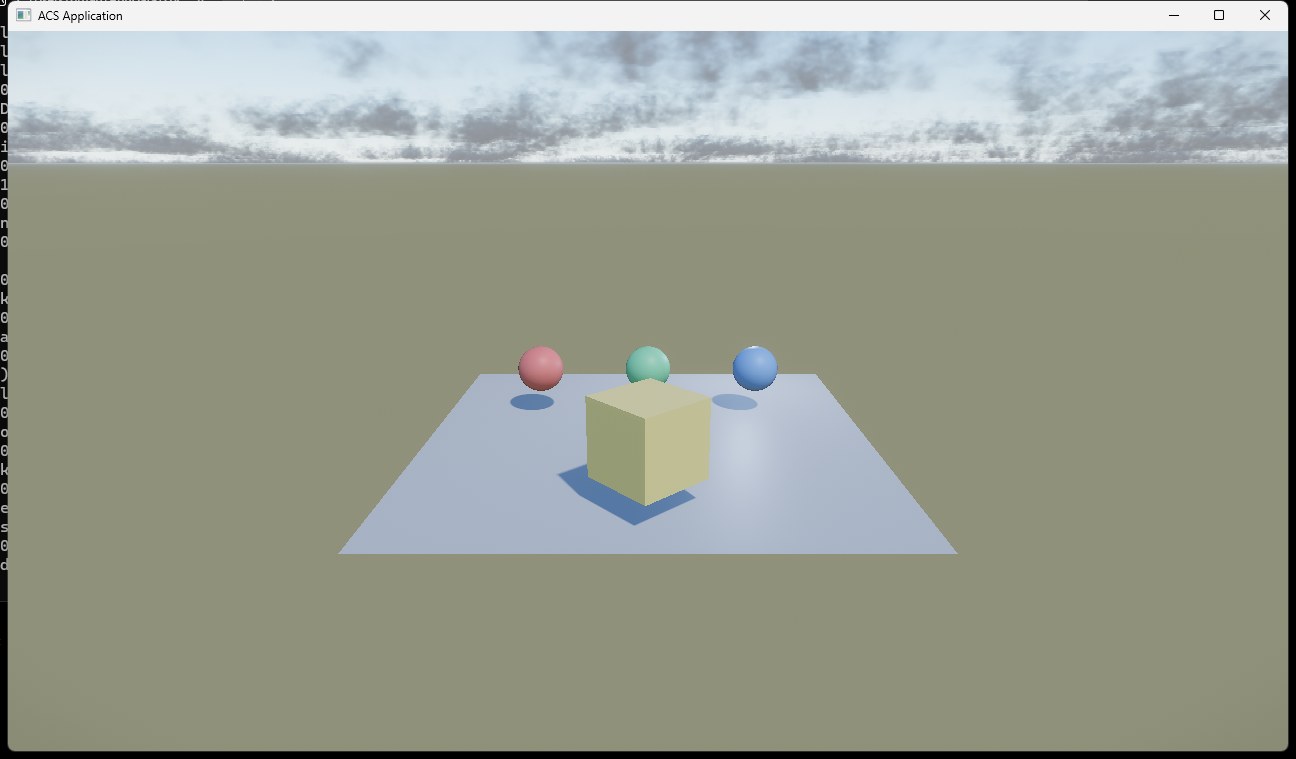
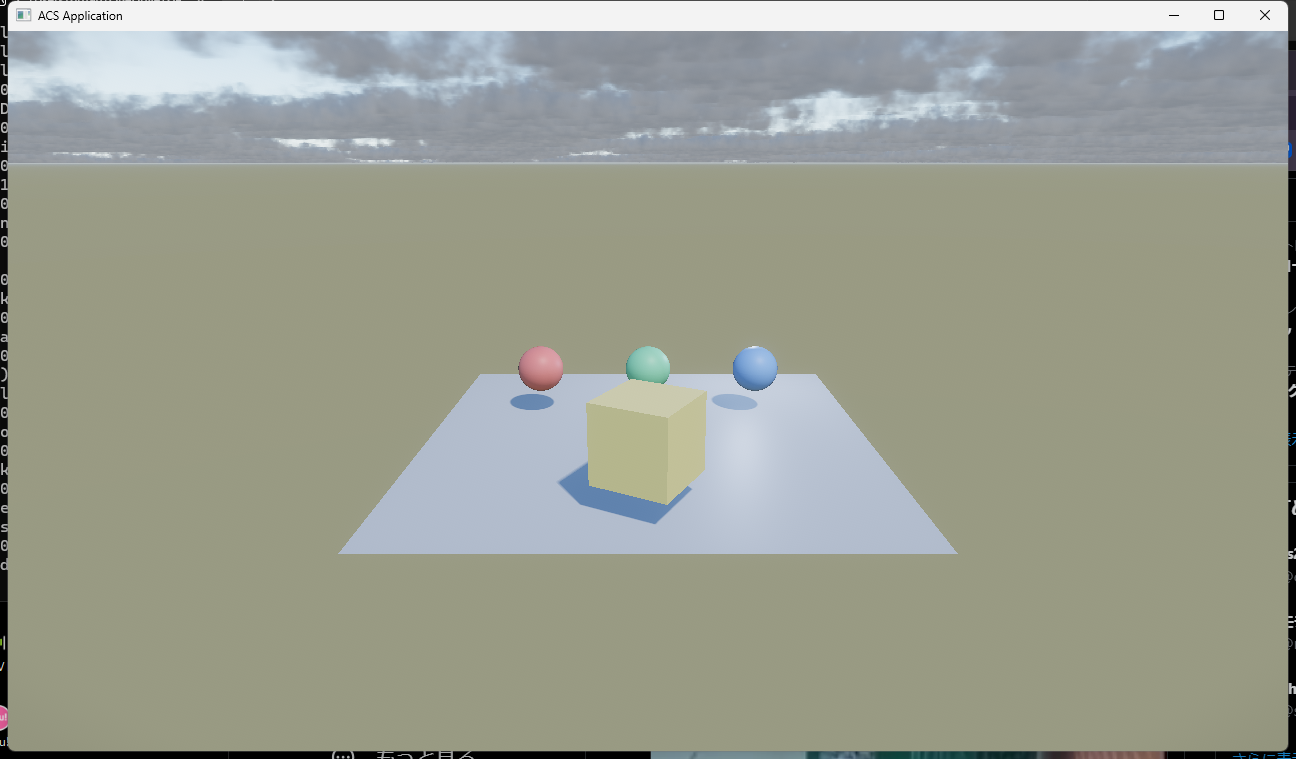
Give the demo clouds enough thickness for the lighting to act on
「ライティングを直したのに見た目が変わらない」の答え。

カメラを固定して新旧を撮り比べ、画素で測った:

  平均 |差| 4.98 / 255、最大 44、8 を超えた画素 20.8 %
  平均輝度 162.4 -> 162.7 (+0.3)

**変わってはいる。が «見て分かる» ほどではない。** 平均輝度が動いていないのが理由で、
この変更は明るさの«配り直し»だから (暗い側を暗く、縁を明るく、総量は同じ)。

そのうえデモの雲が薄すぎた。`Density 1.6` では光がほぼ素通りするので、**位相も消散も
多重散乱も効く相手が無い**。`Density 4.0` で撮ると同じライティングのまま曇天の濃淡が
はっきり出たので、働いていないのではなく働く相手が無かった。

デモを `Coverage 0.68 / Density 2.8` にした。地平の雲が «汚れ» ではなく雲に見える。

証拠: Docs/cloud-before.png (旧値) と Docs/cloud-after.png (既定値)。太陽の方を向いた
固定カメラで、他は一切変えずに撮ったもの。

Claude-Session: https://claude.ai/code/session_01QWWHaYrgcmNEqsp8SUqeVs

diff --git a/Source/AcsFramework_Sample/Scene/Demo3DScene.cpp b/Source/AcsFramework_Sample/Scene/Demo3DScene.cpp
@@ -80,7 +80,11 @@ void ADemo3DScene::OnEnter() noexcept
 	Root().AddChild( Move( FillNode ) );
 
 	// 本物の雲を出す。太陽の側が明るく、縁が光る。
-	Clouds().Coverage = 0.6f;
+	//
+	// 濃さは既定 (1.6) より上げてある。薄いと光が素通りするので、位相も消散も多重散乱も
+	// 効く相手が無く、**灰色の靄にしかならない**。厚みがあって初めて上面と底面に差が出る。
+	Clouds().Coverage = 0.68f;
+	Clouds().Density = 2.8f;
 	Clouds().RenderScale = 3.0f;   // 画面の 3/4 の寸法でトレースする (1.0 は 1/4)
 	Clouds().BaseAltitude = 2600.0f;  // 低いと地平線を真横から貫いて、そこだけ粗く見える
 	Clouds().TopAltitude = 5200.0f;
